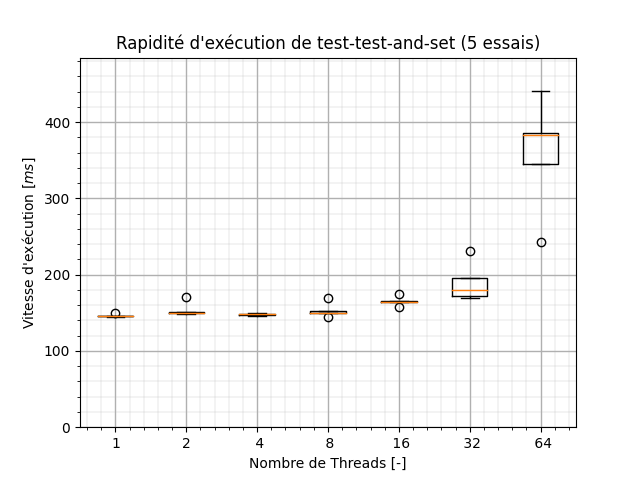
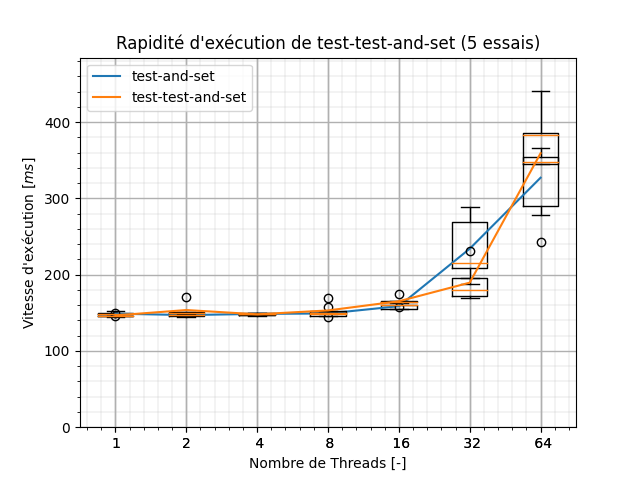
Change plot for test-test-and-set to respect deliverable

diff --git a/Inginious/P1/perf/plot.py b/Inginious/P1/perf/plot.py
@@ -6,9 +6,10 @@ import os
 timeScale = ["ns", "µs", "ms", "s"]
 
 for f in os.listdir("perf/data"):
-    if f.split(".")[-1] == "csv":
-        data = pd.read_csv(f"perf/data/{f}")       
-        fig, ax = plt.subplots()
+    if f.split(".")[-1] == "csv":        
+        data = pd.read_csv(f"perf/data/{f}")  
+        if(f.split(".")[0] != "test-test-and-set"):     
+            fig, ax = plt.subplots()
         maximum = data.to_numpy().max()
         width = data.shape[1]
         standard = [0 for _ in range(width)]
@@ -50,8 +51,10 @@ for f in os.listdir("perf/data"):
         ax.grid(which = "major", linewidth = 1)
         ax.grid(which = "minor", linewidth = 0.2)
         
+        if(f.split(".")[0] in ["test-and-set", "test-test-and-set"]):
+            ax.plot(np.arange(1,len(postProc)+1), [pt.mean() for pt in postProc], label=f.split(".")[0])
+            ax.legend()
         
         #ax.legend()
-                
-        fig.savefig(f"perf/plot/{f.split('.')[0]}_plot.png")
-        data.plot()
+        if(f.split(".")[0] != "test-and-set"):
+            fig.savefig(f"perf/plot/{f.split('.')[0]}_plot.png")

diff --git a/Inginious/P1/README.md b/Inginious/P1/README.md
@@ -54,8 +54,5 @@ Pour réaliser les tests de
 
 à noter ici que la boucle for était borné jusqu'à $1000000$ itérations à chaque fois.
 
-![test-and-set](perf/plot/test-and-set_plot.png)
-
-
 ![test-test-and-set](perf/plot/test-test-and-set_plot.png)
 
